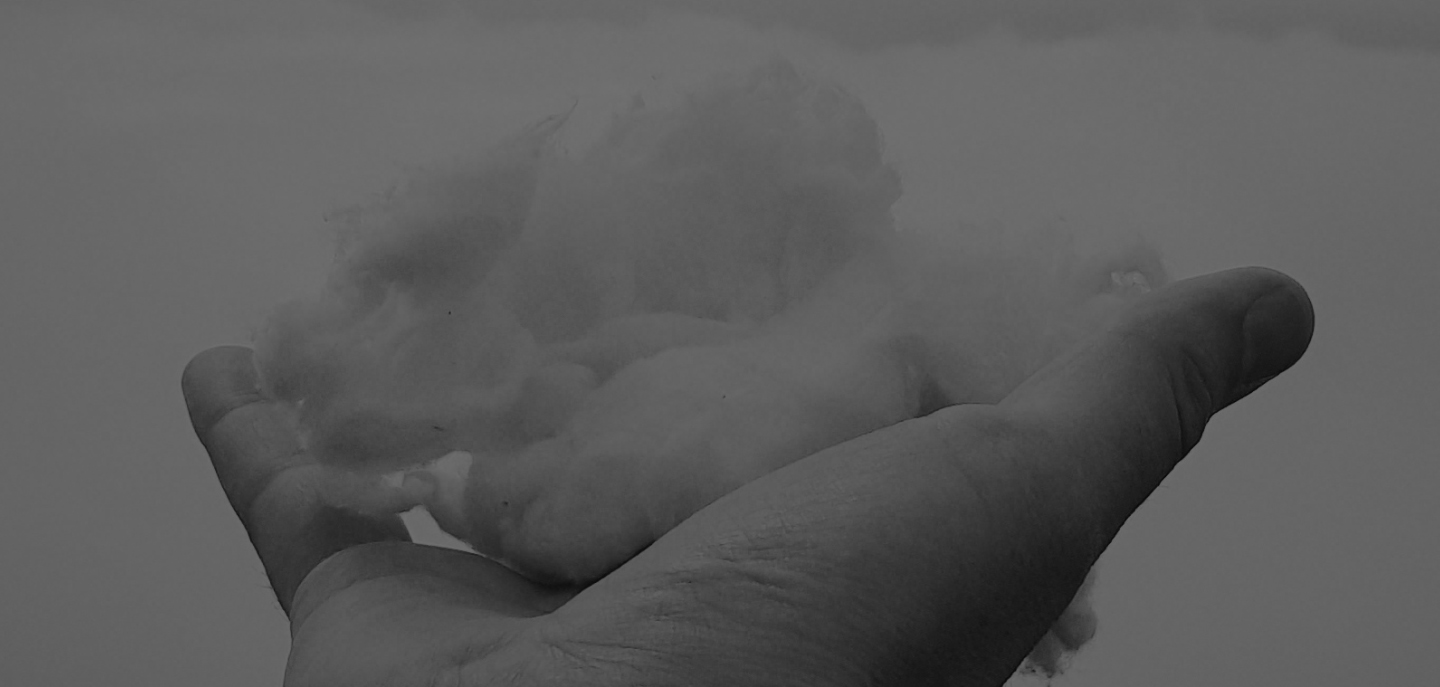
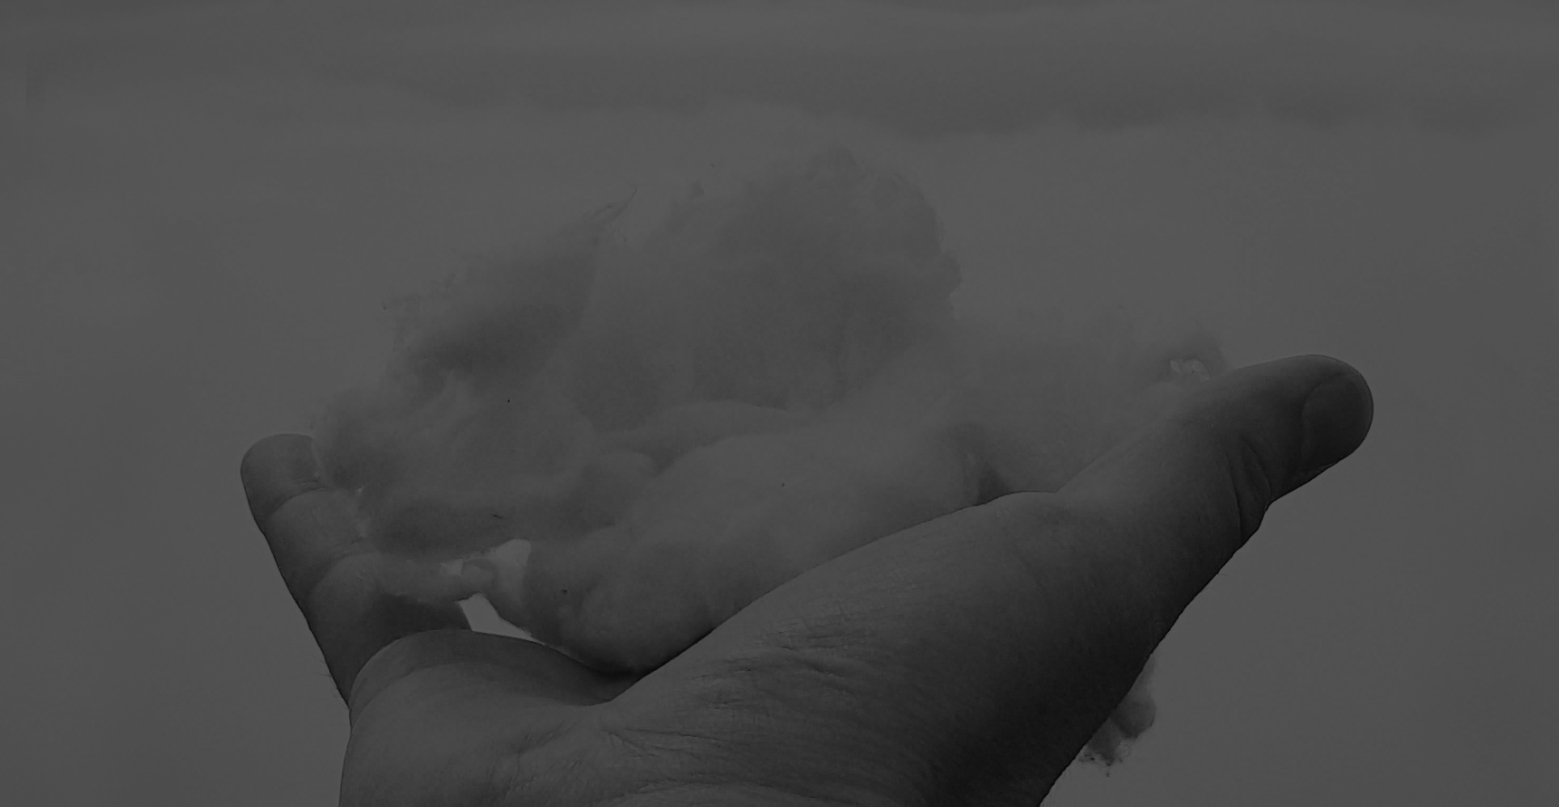
add real image for bootcamp

diff --git a/public/styles/site/_variables.scss b/public/styles/site/_variables.scss
@@ -33,6 +33,7 @@ $career-main-url-mobile: '../heros/career_mobile.jpg';
 $about-main-url: '../heros/about.jpg';
 $about-main-url-mobile: '../heros/about_mobile.jpg';
 $bootcamp-main-url: '../heros/bootcamp.jpg';
+$bootcamp-main-url-mobile: '../heros/bootcamp_mobile.jpg';
 $snapshot-main-url: '../heros/snapshot.jpg';
 $contact-main-url: '../images/contact-world-map@2x.png';
 $summer-main-url: '../heros/summer_course.jpg';

diff --git a/public/styles/site/bootcamp.scss b/public/styles/site/bootcamp.scss
@@ -5,6 +5,8 @@
   min-height: 250px;
   position: relative;
   @media (max-width: $mobile-width) {
+    @include background-cover-image($bootcamp-main-url-mobile);
+
     height: 150px;
     min-height: none;
   }
